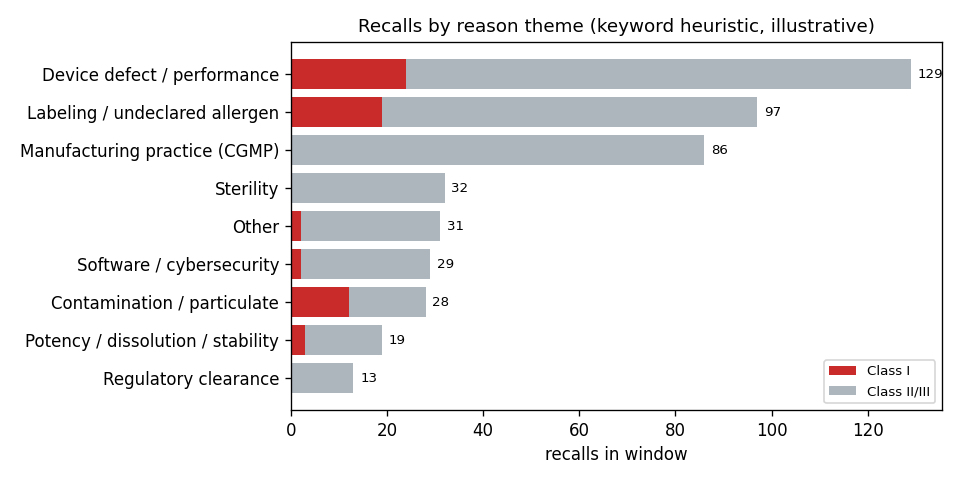
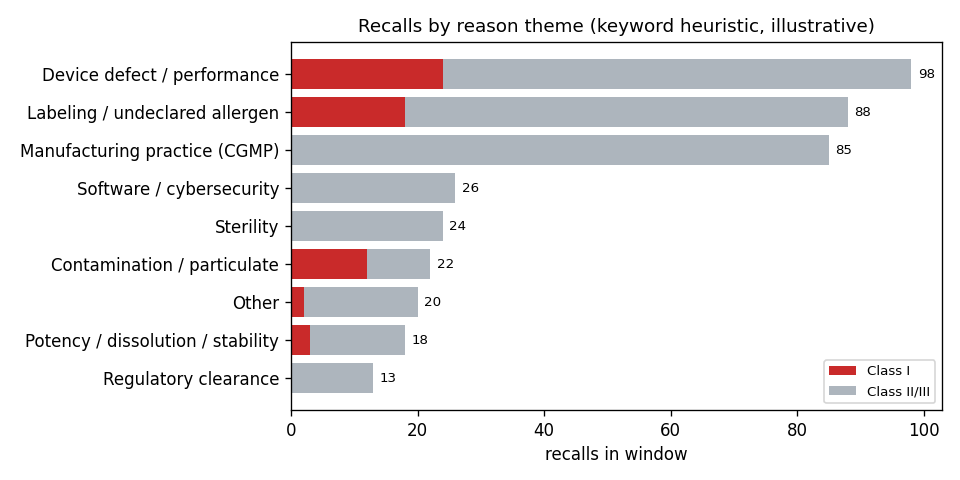
Add Class I share by month; refresh data

diff --git a/src/recallradar/report.py b/src/recallradar/report.py
@@ -42,7 +42,8 @@ def render_markdown(summary: dict, spotlight: list[dict],
                     themes: list[dict] | None = None,
                     themes_product: dict | None = None,
                     firms_by_product: dict | None = None,
-                    open_ages: list[dict] | None = None) -> str:
+                    open_ages: list[dict] | None = None,
+                    class_one_months: list[dict] | None = None) -> str:
     generated_at = generated_at or dt.datetime.now(dt.timezone.utc)
     if endpoint_updated:
         parts = ", ".join(f"{ep} {d}" for ep, d in sorted(endpoint_updated.items()))
@@ -135,6 +136,13 @@ def render_markdown(summary: dict, spotlight: list[dict],
                   "| Class | Open | Median age (days) | Oldest (days) |", "| --- | ---: | ---: | ---: |"]
         for o in open_ages:
             lines.append(f"| {o['classification']} | {o['open']} | {o['median_age_days']:g} | {o['oldest_days']} |")
+    if class_one_months:
+        lines += ["", "## Class I share by month", "",
+                  "Share of recalls classed as Class I (most serious) by report month. "
+                  "Recent months can be partial because openFDA publishes in batches.", "",
+                  "| Month | Recalls | Class I | Share |", "| --- | ---: | ---: | ---: |"]
+        for m in class_one_months:
+            lines.append(f"| {m['month']} | {m['recalls']} | {m['class_i']} | {m['share']:.0%} |")
     if unarchived:
         lines += ["", f"_Window total includes {unarchived} recalls with no recall_number; "
                       "they are reported here but cannot be keyed into the archive._"]

diff --git a/tests/test_analyze.py b/tests/test_analyze.py
@@ -337,3 +337,26 @@ def test_open_ages_section_renders():
                                 open_ages=[{"classification": "Class II", "open": 2,
                                             "median_age_days": 15.0, "oldest_days": 21}])
     assert "| Class II | 2 | 15 | 21 |" in md
+
+
+def test_class_one_share_by_month():
+    from recallradar.analyze import class_one_share_by_month
+    def r(d, cls):
+        return {"report_date": d, "classification": cls}
+    recs = ([r("20261005", "Class I")] * 3 + [r("20261006", "Class II")] * 7
+            + [r("20261101", "Class I")] * 2          # Nov too small
+            + [r("", "Class I"), r("bad", "Class I")])
+    out = class_one_share_by_month(recs, min_recalls=10)
+    assert out == [{"month": "2026-10", "recalls": 10, "class_i": 3, "share": 0.3}]
+    assert class_one_share_by_month(recs, min_recalls=2)[1]["month"] == "2026-11"
+    assert class_one_share_by_month([]) == []
+
+
+def test_class_one_months_section_renders():
+    from recallradar import analyze, report
+    import datetime as dt
+    summary = analyze.summarize([{"report_date": "20261110", "classification": "Class I",
+                                  "product_type": "Drugs", "recalling_firm": "X"}])
+    md = report.render_markdown(summary, [], dt.date(2026, 11, 1), dt.date(2026, 11, 18),
+                                class_one_months=[{"month": "2026-10", "recalls": 10, "class_i": 3, "share": 0.3}])
+    assert "| 2026-10 | 10 | 3 | 30% |" in md

diff --git a/src/recallradar/analyze.py b/src/recallradar/analyze.py
@@ -286,3 +286,21 @@ def open_recall_age(records: list[dict], today: dt.date) -> list[dict]:
         median = a[mid] if len(a) % 2 else (a[mid - 1] + a[mid]) / 2
         out.append({"classification": cls, "open": len(a), "median_age_days": median, "oldest_days": a[-1]})
     return out
+
+
+def class_one_share_by_month(records: list[dict], min_recalls: int = 10) -> list[dict]:
+    """Share of recalls that are Class I (the most serious classification) per
+    report month, oldest first. Months with fewer than min_recalls records are
+    skipped as too small to read a share from. Records with a missing or bad
+    report date are skipped."""
+    months: dict[str, list[int]] = {}
+    for rec in records:
+        try:
+            d = parse_report_date(rec.get("report_date") or "")
+        except ValueError:
+            continue
+        m = months.setdefault(f"{d:%Y-%m}", [0, 0])
+        m[0] += 1
+        m[1] += rec.get("classification") == "Class I"
+    return [{"month": k, "recalls": n, "class_i": c, "share": c / n}
+            for k, (n, c) in sorted(months.items()) if n >= min_recalls]

diff --git a/scripts/daily_update.py b/scripts/daily_update.py
@@ -100,7 +100,8 @@ def main() -> None:
                                themes=analyze.reason_theme_counts(records),
                                themes_product=analyze.themes_by_product(records),
                                firms_by_product=analyze.top_firms_by_product(records),
-                               open_ages=analyze.open_recall_age(records, dt.date.today())),
+                               open_ages=analyze.open_recall_age(records, dt.date.today()),
+                               class_one_months=analyze.class_one_share_by_month(records)),
         encoding="utf-8",
     )
     if report.plot_daily_counts(records, REPORTS / "recalls_last_30d.png",

diff --git a/reports/daily_report.md b/reports/daily_report.md
@@ -1,46 +1,46 @@
 # FDA Recall Radar - daily report
 
-Window: 2026-10-21 to 2026-11-20 (by report date). openFDA last_updated by endpoint: device 2026-11-11, drug 2026-11-11, food 2026-11-11. Generated 2026-11-20 20:04 UTC.
+Window: 2026-10-22 to 2026-11-21 (by report date). openFDA last_updated by endpoint: device 2026-11-11, drug 2026-11-11, food 2026-11-11. Generated 2026-11-21 12:04 UTC.
 
-**464 recalls** across 4 active days.
+**394 recalls** across 3 active days.
 
-> **Stale upstream data:** openFDA has not published for over 7 days (device 9 days, drug 9 days, food 9 days). Recent days may be missing here until it does.
+> **Stale upstream data:** openFDA has not published for over 7 days (device 10 days, drug 10 days, food 10 days). Recent days may be missing here until it does.
 
 ## By severity
 
 | Classification | Recalls |
 | --- | ---: |
-| Class I | 62 |
-| Class II | 363 |
-| Class III | 37 |
+| Class I | 59 |
+| Class II | 298 |
+| Class III | 35 |
 
 ## By product area
 
 | Product type | Recalls |
 | --- | ---: |
-| Devices | 235 |
-| Drugs | 124 |
-| Food | 105 |
+| Devices | 177 |
+| Drugs | 119 |
+| Food | 98 |
 
 ## Reporting lag
 
-Days from recall initiation to the enforcement report, over the 464 recalls in the window with both dates: median **43.0**, p90 65, longest 917.
+Days from recall initiation to the enforcement report, over the 394 recalls in the window with both dates: median **43.0**, p90 65, longest 917.
 
 | Classification | Recalls | Median lag | p90 |
 | --- | ---: | ---: | ---: |
-| Class I | 62 | 41.0 | 65 |
-| Class II | 363 | 43 | 65 |
-| Class III | 37 | 65 | 65 |
+| Class I | 59 | 41 | 65 |
+| Class II | 298 | 42.0 | 65 |
+| Class III | 35 | 65 | 65 |
 
 ## Top recalling firms
 
 - El Ruisenor De Mexico, Inc. (61)
 - Victory Medical Center Pharmacy (42)
 - Boston Scientific Cork, Ltd. (41)
-- Medline Industries, LP (32)
 - ABC Compounding Co., Inc. (19)
 - PRITAM INTERNATIONAL PRIVATE LIMITED (17)
 - Henry Schein Inc. (13)
+- Medline Industries, LP (13)
 - Ventec Life Systems, Inc. (12)
 - Cardinal Health 200, LLC (11)
 - PHILIPS MEDICAL SYSTEMS NEDERLAND B.V. (9)
@@ -49,15 +49,14 @@ Days from recall initiation to the enforcement report, over the 464 recalls in t
 
 | Product type | Class I | Class II | Class III | Class I share |
 | --- | ---: | ---: | ---: | ---: |
-| Devices | 31 | 203 | 1 | 13% |
-| Drugs | 3 | 116 | 4 | 2% |
-| Food | 28 | 44 | 32 | 27% |
+| Devices | 29 | 148 | 0 | 16% |
+| Drugs | 3 | 111 | 4 | 3% |
+| Food | 27 | 39 | 31 | 28% |
 
 ## Recalls by week
 
 | Week of | Recalls | Class I |
 | --- | ---: | ---: |
-| 2026-10-19 | 70 | 3 |
 | 2026-10-26 | 194 | 25 |
 | 2026-11-02 | 77 | 12 |
 | 2026-11-09 | 123 | 22 |
@@ -70,31 +69,31 @@ Keyword grouping of the free-text reason (illustrative heuristic, not an FDA tax
 
 | Theme | Recalls | Class I |
 | --- | ---: | ---: |
-| Device defect / performance | 129 | 24 |
-| Labeling / undeclared allergen | 97 | 19 |
-| Manufacturing practice (CGMP) | 86 | 0 |
-| Sterility | 32 | 0 |
-| Other | 31 | 2 |
-| Software / cybersecurity | 29 | 2 |
-| Contamination / particulate | 28 | 12 |
-| Potency / dissolution / stability | 19 | 3 |
+| Device defect / performance | 98 | 24 |
+| Labeling / undeclared allergen | 88 | 18 |
+| Manufacturing practice (CGMP) | 85 | 0 |
+| Software / cybersecurity | 26 | 0 |
+| Sterility | 24 | 0 |
+| Contamination / particulate | 22 | 12 |
+| Other | 20 | 2 |
+| Potency / dissolution / stability | 18 | 3 |
 | Regulatory clearance | 13 | 0 |
 
 ## Top reason theme by product area
 
 | Product area | Recalls | Top theme | Share of area |
 | --- | ---: | --- | ---: |
-| Devices | 235 | Device defect / performance | 54% |
-| Drugs | 124 | Manufacturing practice (CGMP) | 68% |
-| Food | 105 | Labeling / undeclared allergen | 79% |
+| Devices | 177 | Device defect / performance | 55% |
+| Drugs | 119 | Manufacturing practice (CGMP) | 70% |
+| Food | 98 | Labeling / undeclared allergen | 80% |
 
 ## Top recalling firms by product area
 
 | Product area | Firm | Recalls | Class I |
 | --- | --- | ---: | ---: |
 | Devices | Boston Scientific Cork, Ltd. | 41 | 0 |
-| Devices | Medline Industries, LP | 32 | 0 |
 | Devices | Henry Schein Inc. | 13 | 0 |
+| Devices | Medline Industries, LP | 13 | 0 |
 | Drugs | Victory Medical Center Pharmacy | 42 | 0 |
 | Drugs | ABC Compounding Co., Inc. | 19 | 0 |
 | Drugs | PRITAM INTERNATIONAL PRIVATE LIMITED | 17 | 0 |
@@ -106,7 +105,7 @@ Keyword grouping of the free-text reason (illustrative heuristic, not an FDA tax
 
 | Status | Recalls | Share |
 | --- | ---: | ---: |
-| Ongoing | 463 | 100% |
+| Ongoing | 393 | 100% |
 | Completed | 1 | 0% |
 
 ## Age of open recalls
@@ -115,10 +114,19 @@ Days since initiation for recalls still marked Ongoing.
 
 | Class | Open | Median age (days) | Oldest (days) |
 | --- | ---: | ---: | ---: |
-| Class I | 61 | 58 | 268 |
-| Class II | 363 | 65 | 926 |
-| Class III | 37 | 88 | 88 |
-| Not Yet Classified | 2 | 112 | 196 |
+| Class I | 58 | 58 | 269 |
+| Class II | 298 | 65 | 927 |
+| Class III | 35 | 89 | 89 |
+| Not Yet Classified | 2 | 113 | 197 |
+
+## Class I share by month
+
+Share of recalls classed as Class I (most serious) by report month. Recent months can be partial because openFDA publishes in batches.
+
+| Month | Recalls | Class I | Share |
+| --- | ---: | ---: | ---: |
+| 2026-10 | 194 | 25 | 13% |
+| 2026-11 | 200 | 34 | 17% |
 
 _Window total includes 2 recalls with no recall_number; they are reported here but cannot be keyed into the archive._
 
@@ -131,8 +139,8 @@ Firms with 3+ recalls in the window (a supplier-risk signal).
 | El Ruisenor De Mexico, Inc. | 61 | 5 |
 | Victory Medical Center Pharmacy | 42 | 0 |
 | Boston Scientific Cork, Ltd. | 41 | 0 |
-| Medline Industries, LP | 32 | 0 |
 | ABC Compounding Co., Inc. | 19 | 0 |
+| PRITAM INTERNATIONAL PRIVATE LIMITED | 17 | 0 |
 
 ## Highest-severity recalls in the window
 
